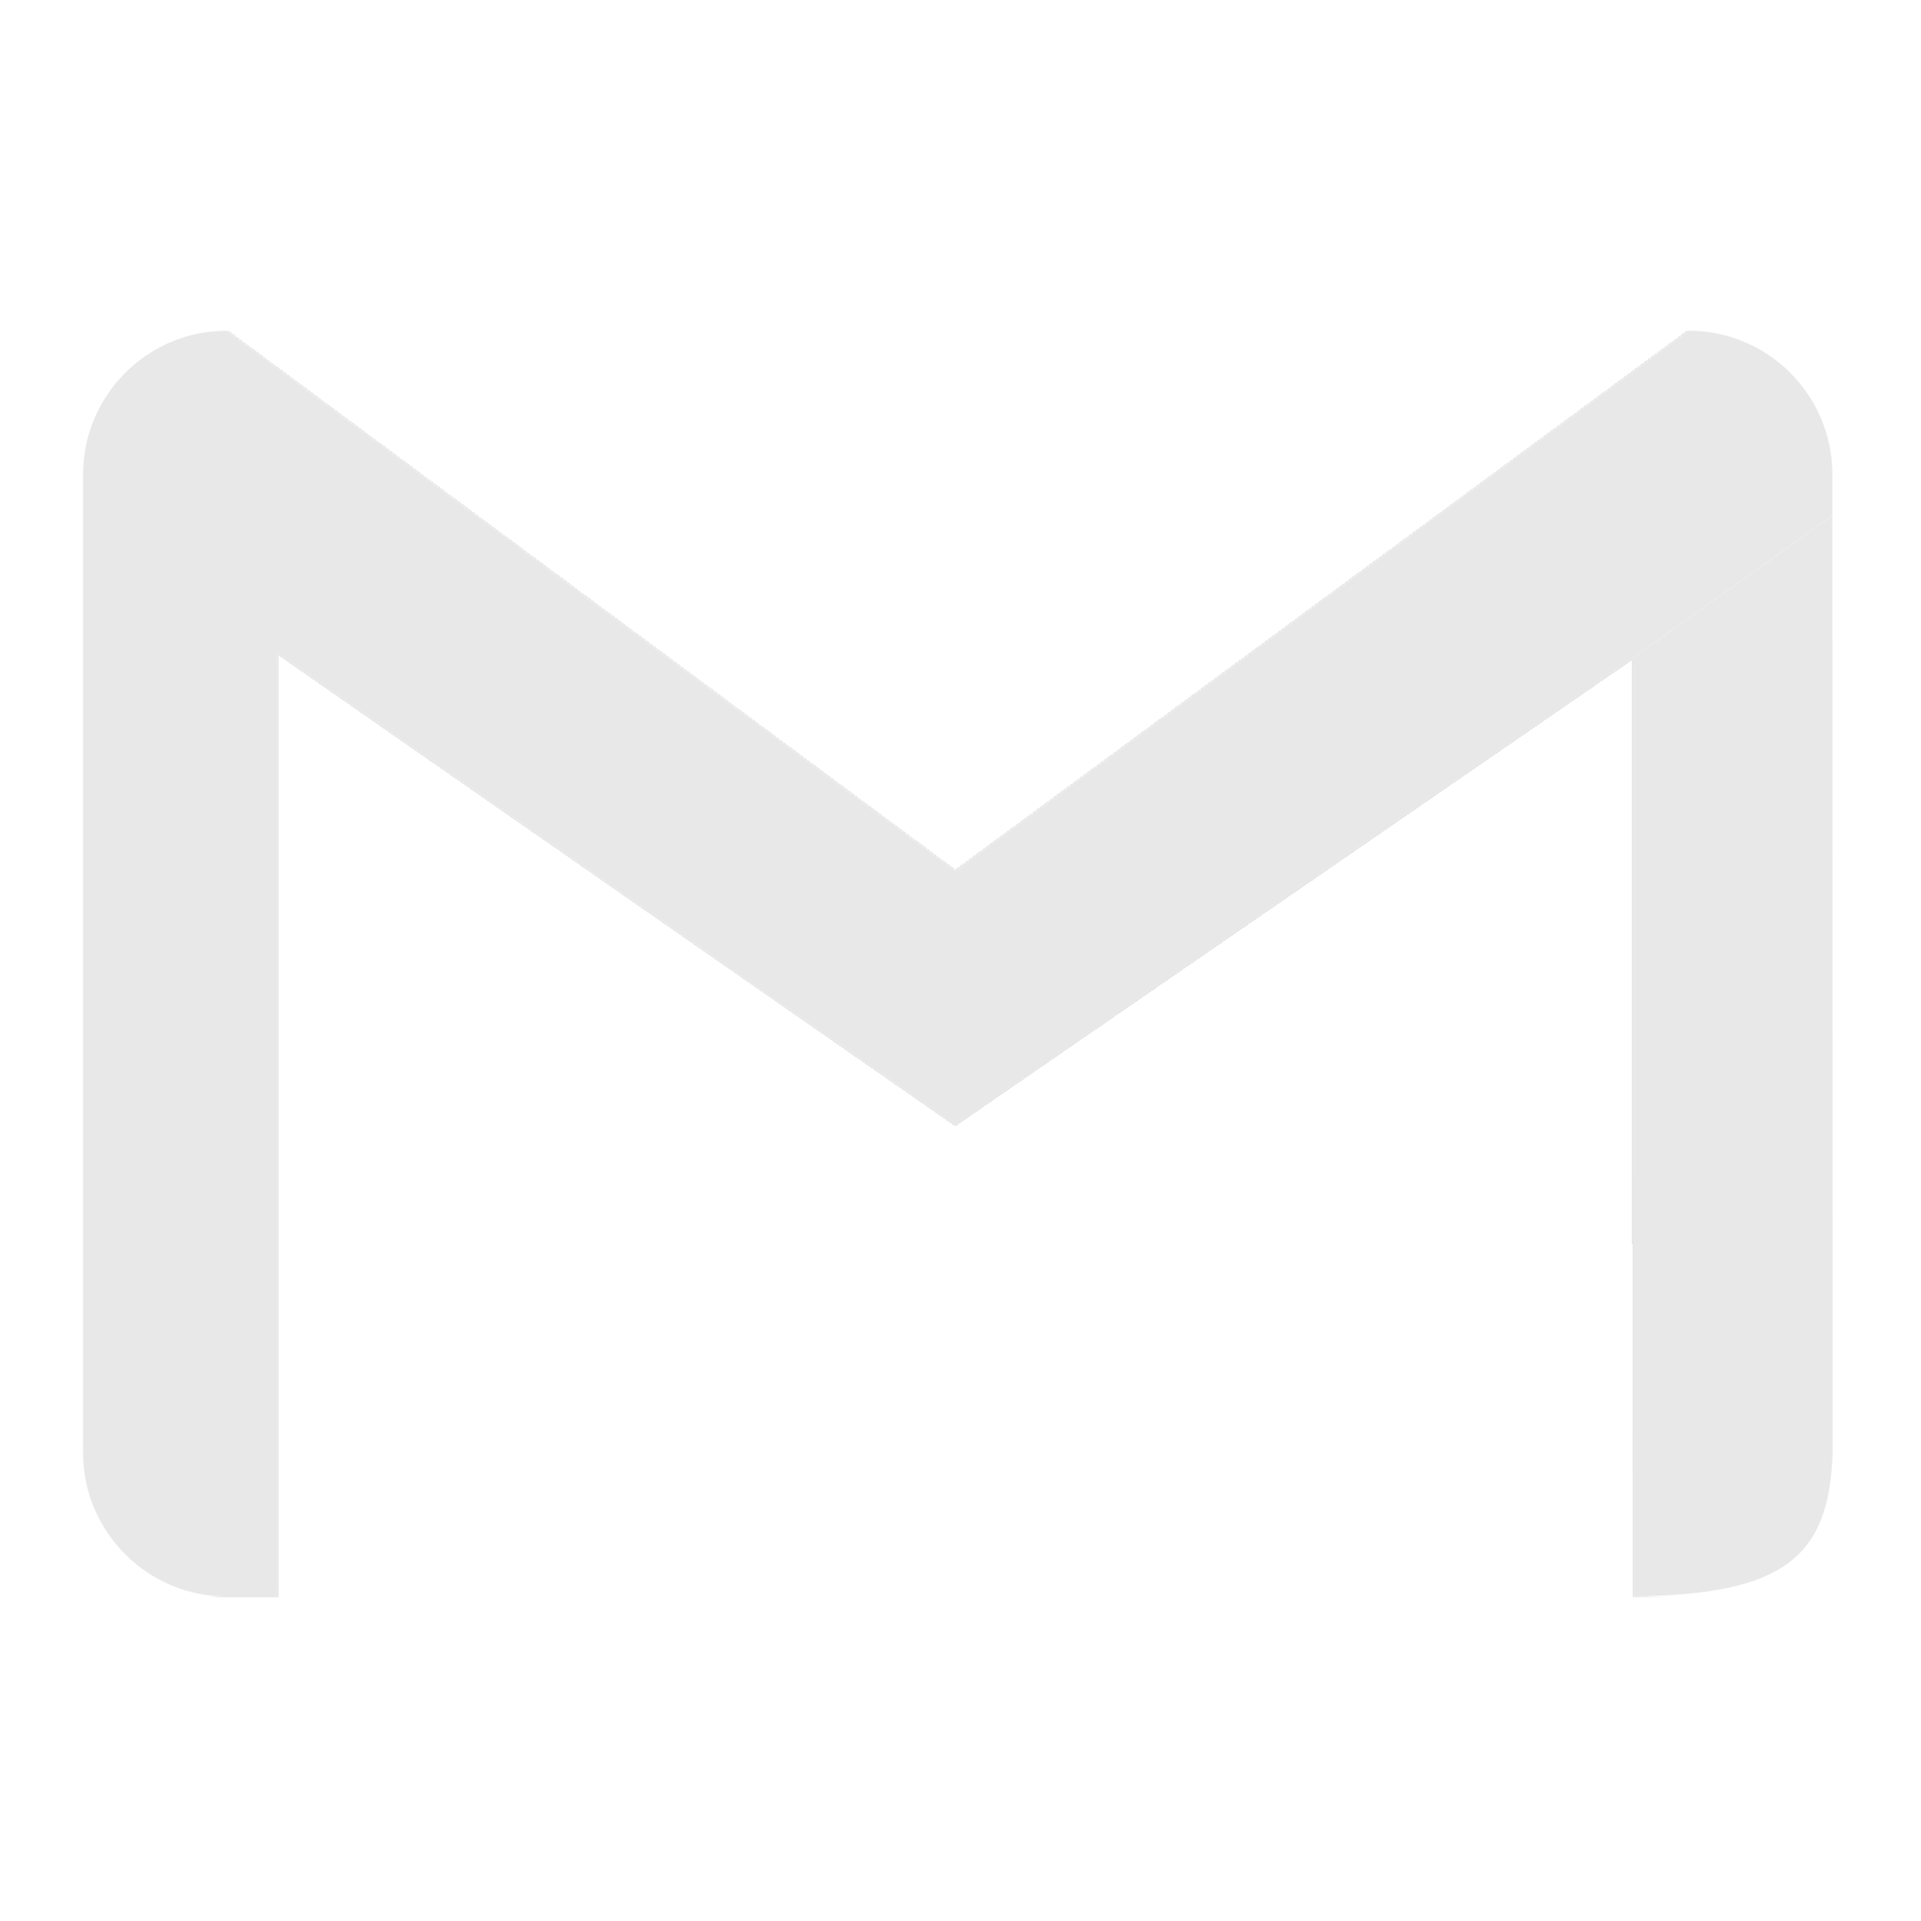
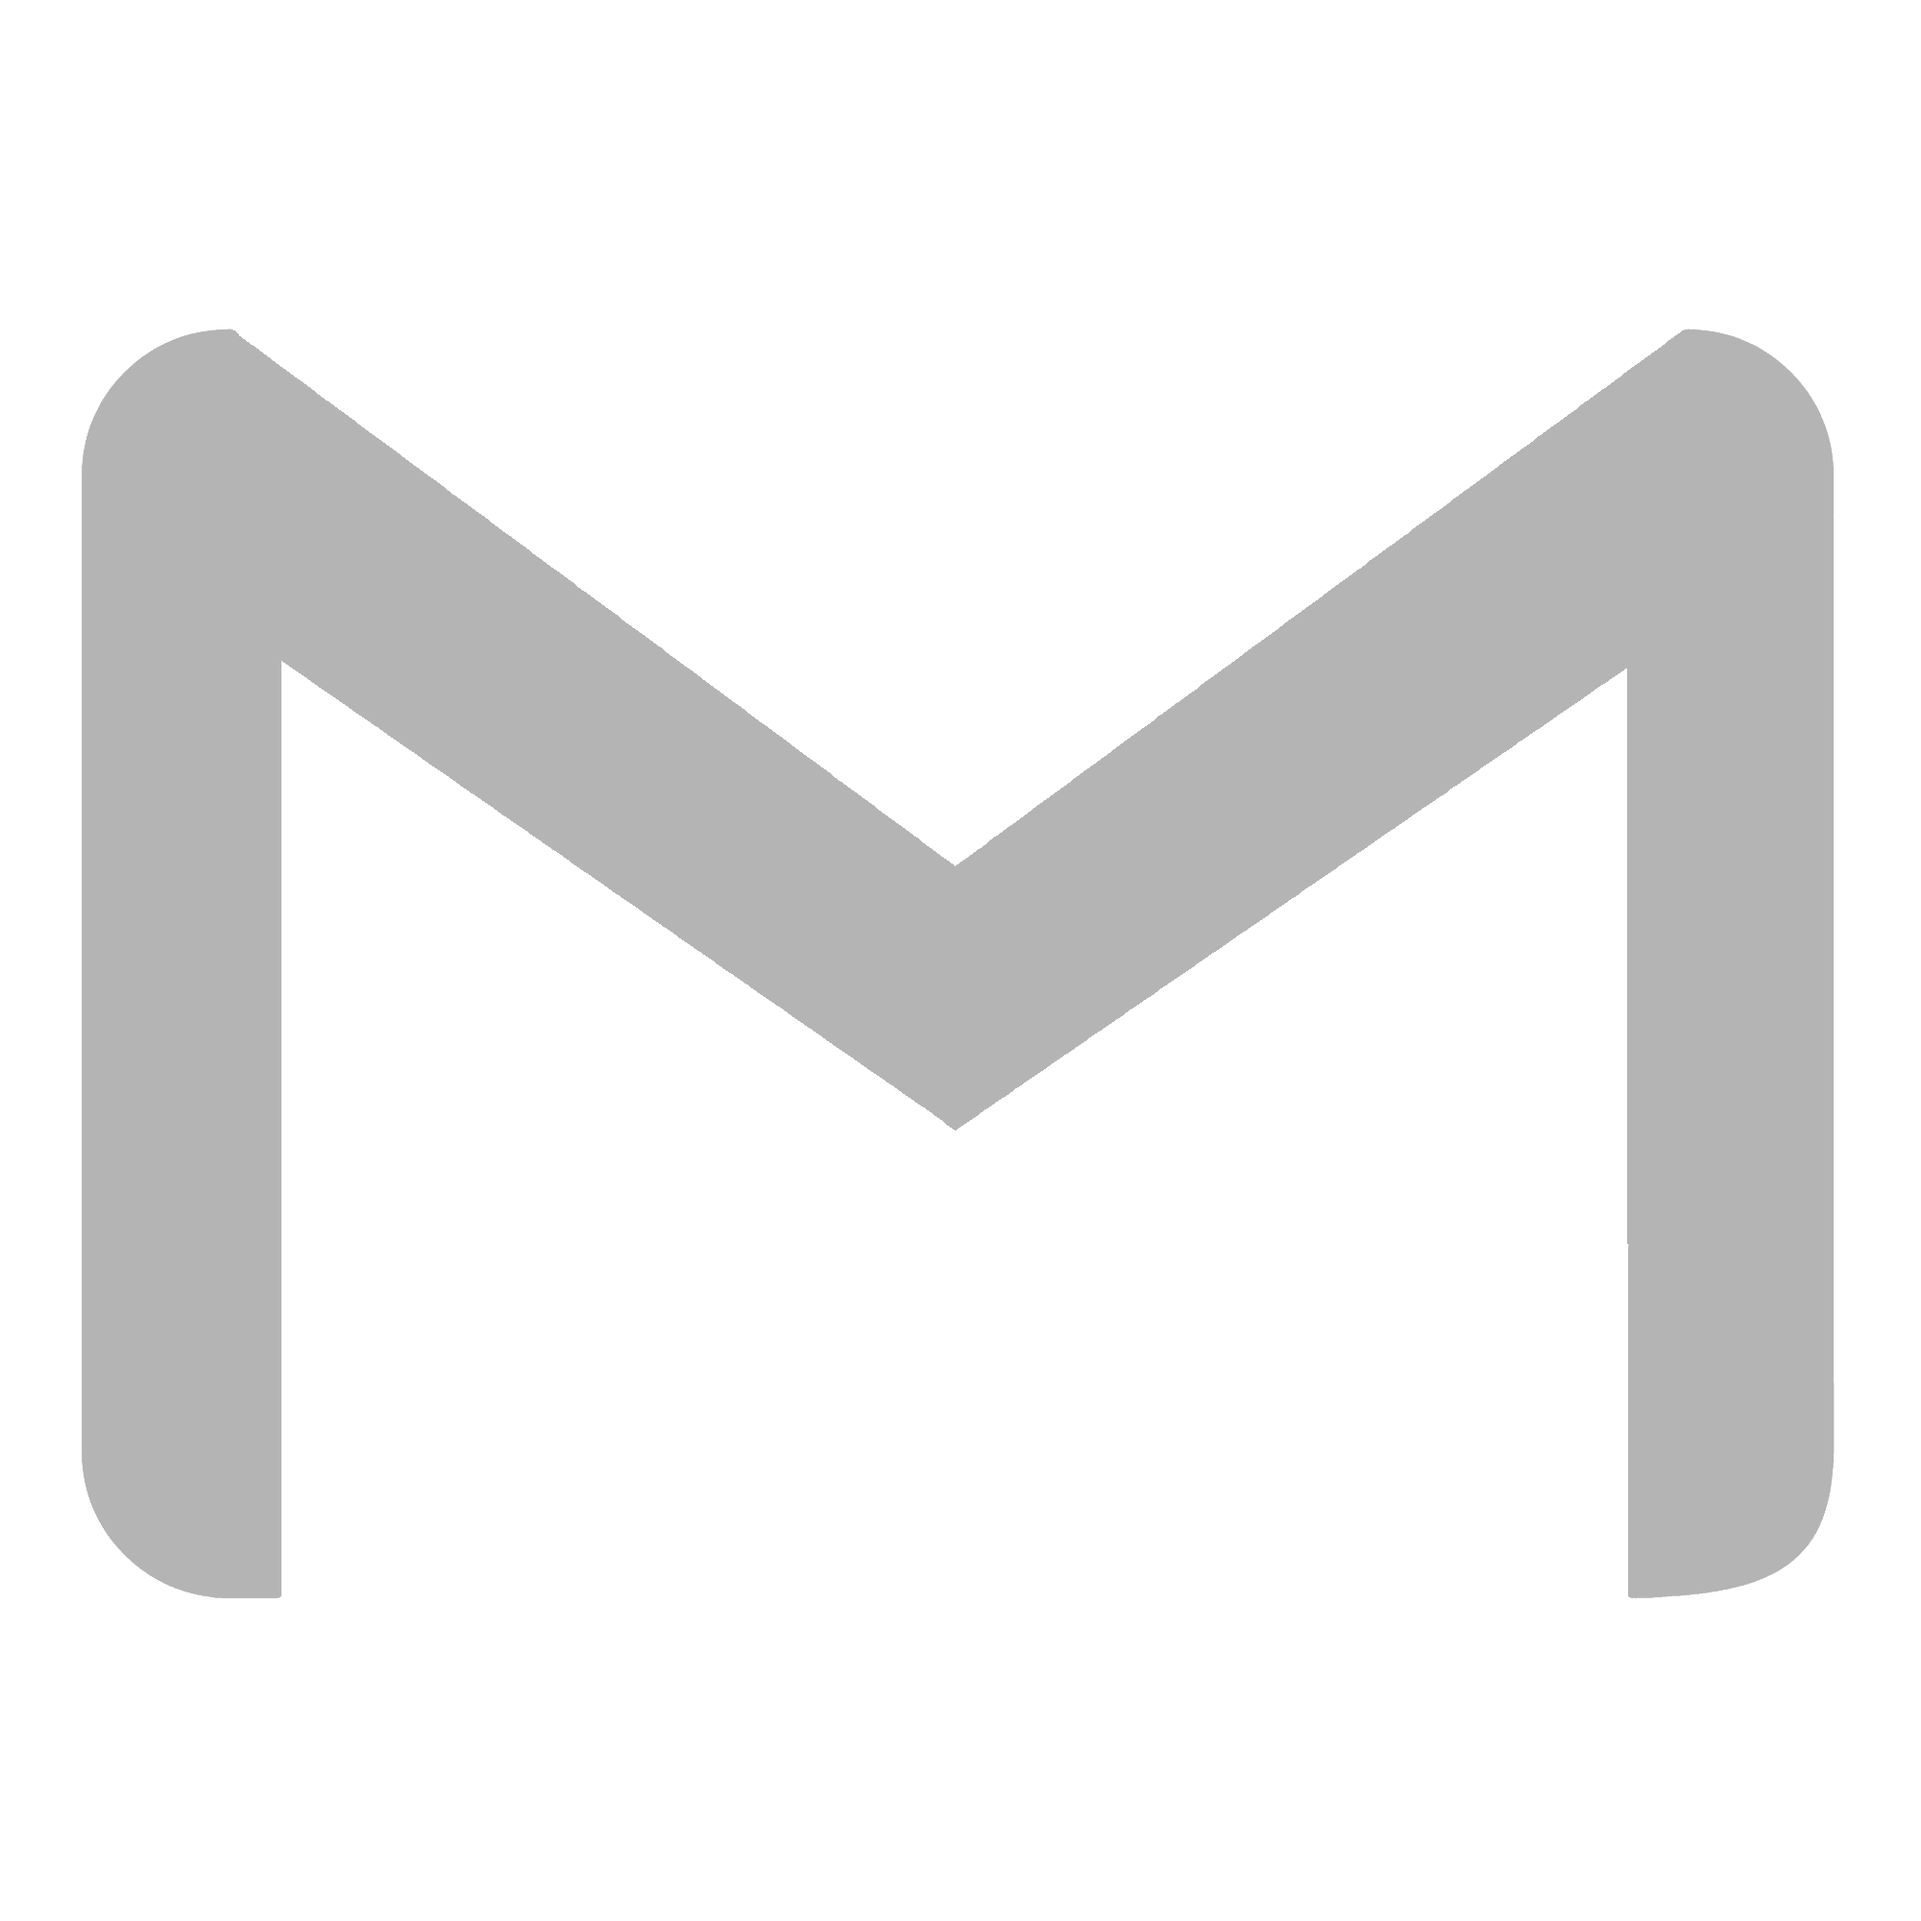
on hover effect added

Changed region(s): [[0.031, 0.155, 0.961, 0.837]]

diff --git a/index.html b/index.html
@@ -14,11 +14,11 @@
     <p id="job">SOFTWARE ENGINEER</p>
     </div>
     <footer>
-        <a href="https://www.linkedin.com/in/seif-hegazy-795269242/" target="_blank"><img src="images/linkedin.png" alt="linkedin"></a>
-        <a href="mailto:seif302010@gmail.com" target="_blank"><img src="images/gmail.png" alt="gmail"></a>
-        <a href="https://codeforces.com/profile/seif302010" target="_blank"><img src="images/codeforces.png" alt="codeforces"></a>
-        <a href="https://github.com/Seif302010" target="_blank"><img src="images/github.png" alt="github"></a>
-        <a href="https://wa.me/+201275673568" target="_blank"><img src="images/whatsapp.png" alt="whatapp"></a>
+        <a href="https://www.linkedin.com/in/seif-hegazy-795269242/" target="_blank" id="linkedin"></a>
+        <a href="mailto:seif302010@gmail.com" target="_blank" id="gmail"></a>
+        <a href="https://codeforces.com/profile/seif302010" target="_blank" id="codeforces"></a>
+        <a href="https://github.com/Seif302010" target="_blank" id="github"></a>
+        <a href="https://wa.me/+201275673568" target="_blank" id="whatsapp"></a>
     </footer>
     <script src="js/index.js"></script>
 </body>

diff --git a/css/index.css b/css/index.css
@@ -45,9 +45,57 @@ footer{
 }
 
 footer a{
-    margin:0 1% 0 1% ;
+    width: 45px;
+    height: 45px;
+    background-size: contain;
+    background-repeat: no-repeat;
+    margin:0 1% 1% 1% ;
 }
 
-footer img{
-    max-width: 45px;
-}
+#linkedin {
+    background-image: url(../images/linkedin.png);
+  }
+  
+#linkedin:hover {
+    background-image: url(../images/linkedin_colored.png);
+  }
+  
+
+
+#gmail {
+    background-image: url(../images/gmail.png);
+  }
+  
+#gmail:hover {
+    background-image: url(../images/gmail_colored.png);
+  }
+
+
+
+#codeforces {
+    background-image: url(../images/codeforces.png);
+  }
+
+#codeforces:hover {
+    background-image: url(../images/codeforces_colored.png);
+  }
+  
+
+
+#github {
+    background-image: url(../images/github_reversed.png);
+  }
+
+#github:hover {
+    background-image: url(../images/github.png);
+  }
+
+
+  
+#whatsapp {
+    background-image: url(../images/whatsapp.png);
+  }
+  
+#whatsapp:hover {
+    background-image: url(../images/whatsapp_colored.png);
+  }
